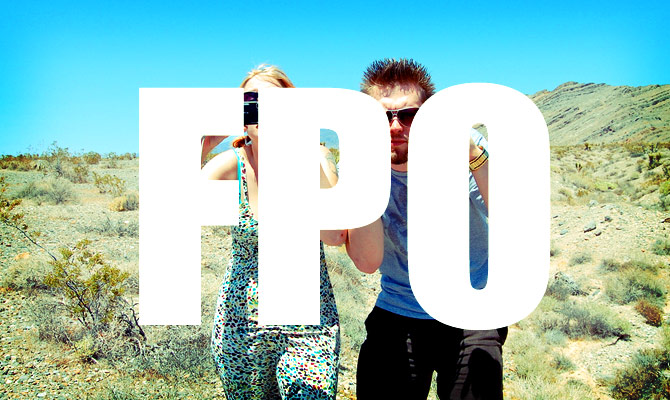
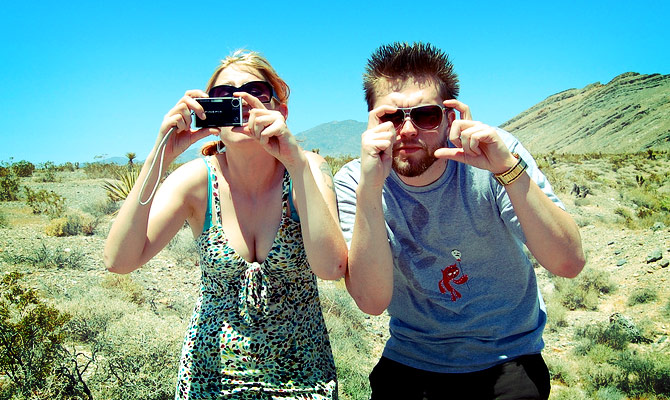
photo gallery and about

diff --git a/bliss/templates/wedding/home.html b/bliss/templates/wedding/home.html
@@ -1,6 +1,6 @@
 {% extends "layouts/wedding.html" %}
-
-{% block title %}{% endblock %}
+{% load ui %}
+{% block title %}Got hitched - August 1, 2010{% endblock %}
 
 {% block content %}
 <!-- Intro copy -->
@@ -21,63 +21,7 @@
 <!-- Photo gallery -->
 <div id='photos' class='c title'>
 	<h2 class='g'>don't we look precious?</h2>
-	<div class='glowBox g photos'>
-		<div id='slideshow' class='slideshow'></div>
-		<div id='thumbs' class='ac'>
-			<ul class="thumbs noscript">
-				<li>
-					<a class='thumb' href='/img/photos/00_00_couple.jpg' title='alt text'>
-						<img src='/img/photos/00_00_couple_t.jpg' alt='alt text' />
-					</a>
-				</li>
-				<li>
-					<a class='thumb' href='/img/photos/00_00_couple.jpg' title='alt text'>
-						<img src='/img/photos/00_00_couple_t.jpg' alt='alt text' />
-					</a>
-				</li>
-				<li>
-					<a class='thumb' href='/img/photos/00_00_couple.jpg' title='alt text'>
-						<img src='/img/photos/00_00_couple_t.jpg' alt='alt text' />
-					</a>
-				</li>
-				<li>
-					<a class='thumb' href='/img/photos/00_00_couple.jpg' title='alt text'>
-						<img src='/img/photos/00_00_couple_t.jpg' alt='alt text' />
-					</a>
-				</li>
-				<li>
-					<a class='thumb' href='/img/photos/00_00_couple.jpg' title='alt text'>
-						<img src='/img/photos/00_00_couple_t.jpg' alt='alt text' />
-					</a>
-				</li>
-				<li>
-					<a class='thumb' href='/img/photos/00_00_couple.jpg' title='alt text'>
-						<img src='/img/photos/00_00_couple_t.jpg' alt='alt text' />
-					</a>
-				</li>
-				<li>
-					<a class='thumb' href='/img/photos/00_00_couple.jpg' title='alt text'>
-						<img src='/img/photos/00_00_couple_t.jpg' alt='alt text' />
-					</a>
-				</li>
-				<li>
-					<a class='thumb' href='/img/photos/00_00_couple.jpg' title='alt text'>
-						<img src='/img/photos/00_00_couple_t.jpg' alt='alt text' />
-					</a>
-				</li>
-			</ul>
-		</div>
-		<div id="controls" class='controls'></div>
-		<script>
-		jQuery(document).ready(function($) {
-		    var gallery = $('#thumbs').galleriffic({
-		        delay:                     3000, // in milliseconds
-		        imageContainerSel:         '#slideshow', // The CSS selector for the element within which the main slideshow image should be rendered
-		        controlsContainerSel:      '#controls', // The CSS selector for the element within which the slideshow controls should be rendered
-		    });
-		});
-		</script>
-	</div>
+	{{photos|drawPhotos}}
 </div>
 
 {% endblock %}

diff --git a/bliss/templates/layouts/wedding.html b/bliss/templates/layouts/wedding.html
@@ -1,7 +1,7 @@
 {% load ui %}
 <html>
 <head>
-	<title>{% block title %}James Vreeland &amp; Amanda Simmons - August 1, 2010{% endblock %}</title>
+	<title>James Vreeland &amp; Amanda Simmons - {% block title %}{% endblock %}</title>
 	<link rel="stylesheet" href="/css/core.css" type="text/css" media="screen" charset="utf-8" />
 	<link rel="shortcut icon" href="/img/favicon.ico" />
 
@@ -13,22 +13,22 @@
 			<h1>james <span class='dull'>&amp;</span> amanda</h1>
 			<h4>august 1, 2010</h4>
 			<h4>vegas, baby. vegas!</h4>
-			{{'home'|drawNav}}
+			{{curr_page|drawNav}}
 			
-			<img src='img/corner.png' class='corner tl' />
-			<img src='img/corner.png' class='corner br' />
+			<img src='/img/corner.png' class='corner tl' />
+			<img src='/img/corner.png' class='corner br' />
 		</div>
 		
 		{% block content %}{% endblock %}
 		
 		<div id='fb' class='c glowBox'>
 			<div id='fb-contents'>
-				<fb:comments css='http://jamesandamanda.com/css/fb.css?1'></fb:comments>
+				<fb:comments css='http://jamesandamanda.com/css/fb.css?1' width='670'></fb:comments>
 			</div>
 		</div>
 				
 		<div id='footer' class='c'>
-			It's not a wedding site until someone busts out Zapfino
+			
 		</div>
 		<div id="fb-root"></div>
 		<script src='/js/jquery.galleriffic.js'></script>

diff --git a/bliss/templates/wedding/about.html b/bliss/templates/wedding/about.html
@@ -1,0 +1,29 @@
+{% extends "layouts/wedding.html" %}
+{% load ui %}
+
+{% block title %}Who?{% endblock %}
+
+{% block content %}
+<!-- About Us copy -->
+<div id='about' class='c title'>
+	<div class='g'>
+		<h2>who are you again?</h2>
+		<p>Sorry, you'll pull through just fine. I promise.</p>
+	</div>
+</div>
+
+<!-- Home Sweet Home -->
+<div id='home_sweet_home' class='c title'>
+	<h2 class='g'>home, sweet home.</h2>
+	<div class='glowBox'>
+		<img src='/img/home_sweet_home.png' />
+	</div>
+	<p>10 years, 8 roommates, 4 pets, 3 apartments and a house. We've been at this for a while now, and think we have the whole <em>"living together without killing each other"</em> thing pretty well handled. We've been acting like a married couple for half a decade anyway, it's time to start doing it for real now.</p>
+</div>
+
+<!-- Photo gallery -->
+<div id='photos' class='c'>
+	{{photos|drawPhotos}}
+</div>
+
+{% endblock %}

diff --git a/site_media/css/core.css b/site_media/css/core.css
@@ -57,7 +57,7 @@ body {
     }
 
 p {
-    line-height: 15px;
+    line-height: 18px;
     }
     
 em {
@@ -74,6 +74,7 @@ h1, h2, h3, h4, h5, h6 {
 h1 {
     font-family: Garamond, "Hoefler Text", Palatino, "Palatino Linotype", serif;
     font-weight: normal;
+    /*font-style: italic;*/
     font-size: 52px;
     padding-top: 10px;
     margin-bottom:15px;
@@ -85,6 +86,7 @@ h1 {
 
 h2 {
     font-weight: normal;
+    /*font-style: italic;*/
     font-family: Garamond, "Hoefler Text", Palatino, "Palatino Linotype", serif;
     font-size: 28px;
     color: #B8C45A;

diff --git a/bliss/templatetags/ui.py b/bliss/templatetags/ui.py
@@ -47,4 +47,36 @@ def drawNav(value):
     nav += "</ul>"
     return mark_safe(nav)
     
+@register.filter()
+def drawPhotos(photos, prefix=''):
+    gallery  = "<div class='glowBox g photos'>"
+    gallery += "<div id='"+prefix+"slideshow' class='slideshow'></div>"
+    gallery += "<div id='"+prefix+"thumbs' class='ac'>"
+    gallery += "	<ul class='thumbs noscript'>"
+    for photo in photos:
+        gallery += "		<li>"
+        gallery += "			<a class='thumb' href='/img/photos/"+photo[0]+".jpg' title='"+photo[1]+"'>"
+        gallery += "				<img src='/img/photos/"+photo[0]+"_t.jpg' alt='"+photo[1]+"' />"
+        gallery += "			</a>"
+        gallery += "		</li>"
+    gallery += "	</ul>"
+    gallery += "</div>"
+    gallery += "<div id='"+prefix+"controls' class='controls'></div>"
+    gallery += "<script>"
+    gallery += "jQuery(document).ready(function($) {"
+    gallery += "    var gallery = $('#"+prefix+"thumbs').galleriffic({"
+    gallery += "        delay:                     3000, "
+    gallery += "        imageContainerSel:         '#"+prefix+"slideshow', "
+    gallery += "        controlsContainerSel:      '#"+prefix+"controls', "
+    gallery += "    });"
+    gallery += "});"
+    gallery += "</script>"
+    gallery += "</div>"
+    
+    return mark_safe(gallery)
+    
+    
+    
+    
+    
 

diff --git a/bliss/wedding/views.py b/bliss/wedding/views.py
@@ -19,7 +19,38 @@ from django.shortcuts import render_to_response
 #   *render_to_response*
 #
 def home(request):
-    data = {}
+    data = {'curr_page':'home'}
+    data['photos'] = [
+        ['00_00_couple', 'fpo'],
+        ['00_00_couple', 'fpo'],
+        ['00_00_couple', 'fpo'],
+    ]
     template = "wedding/home.html"
     
+    return render_to_response(template, data)
+    
+###
+# Function: about
+#
+# About Us view
+#
+# Parameters:
+#
+# Returns:
+#   *render_to_response*
+#
+def about(request):
+    data = {'curr_page':'about'}
+    data['photos'] = [
+        ['00_00_couple', 'Smile'],
+        ['00_01_wonderland', 'Wonderland NYE 2009'],
+        ['00_02_strawberry', 'We found a carnival graveyard in the woods'],
+        ['00_03_petes', 'Just being domestic and walking the dog'],
+        ['00_04_lady_glasses', 'James looks good in lady glasses'],
+        ['00_05_fireside', 'Our first trip to the Peppermill Lounge'],
+        ['00_06_fish', 'Sleeping with artists'],
+        
+    ]
+    template = "wedding/about.html"
+
     return render_to_response(template, data)

diff --git a/bliss/wedding/urls.py b/bliss/wedding/urls.py
@@ -1,0 +1,21 @@
+#####
+# Title: bliss.wedding.urls.py
+#
+# Controls the direction of various URLs within the site
+#
+#
+
+from django.conf.urls.defaults import *
+urlpatterns  = patterns('')
+
+###
+# Title: Wedding routing
+#
+# routing for end user views
+#
+
+urlpatterns += patterns('bliss.wedding.views',
+    url(r'^$','home',name='wedding-home'),
+    url(r'^about/$','about',name='wedding-about'),
+        
+)
